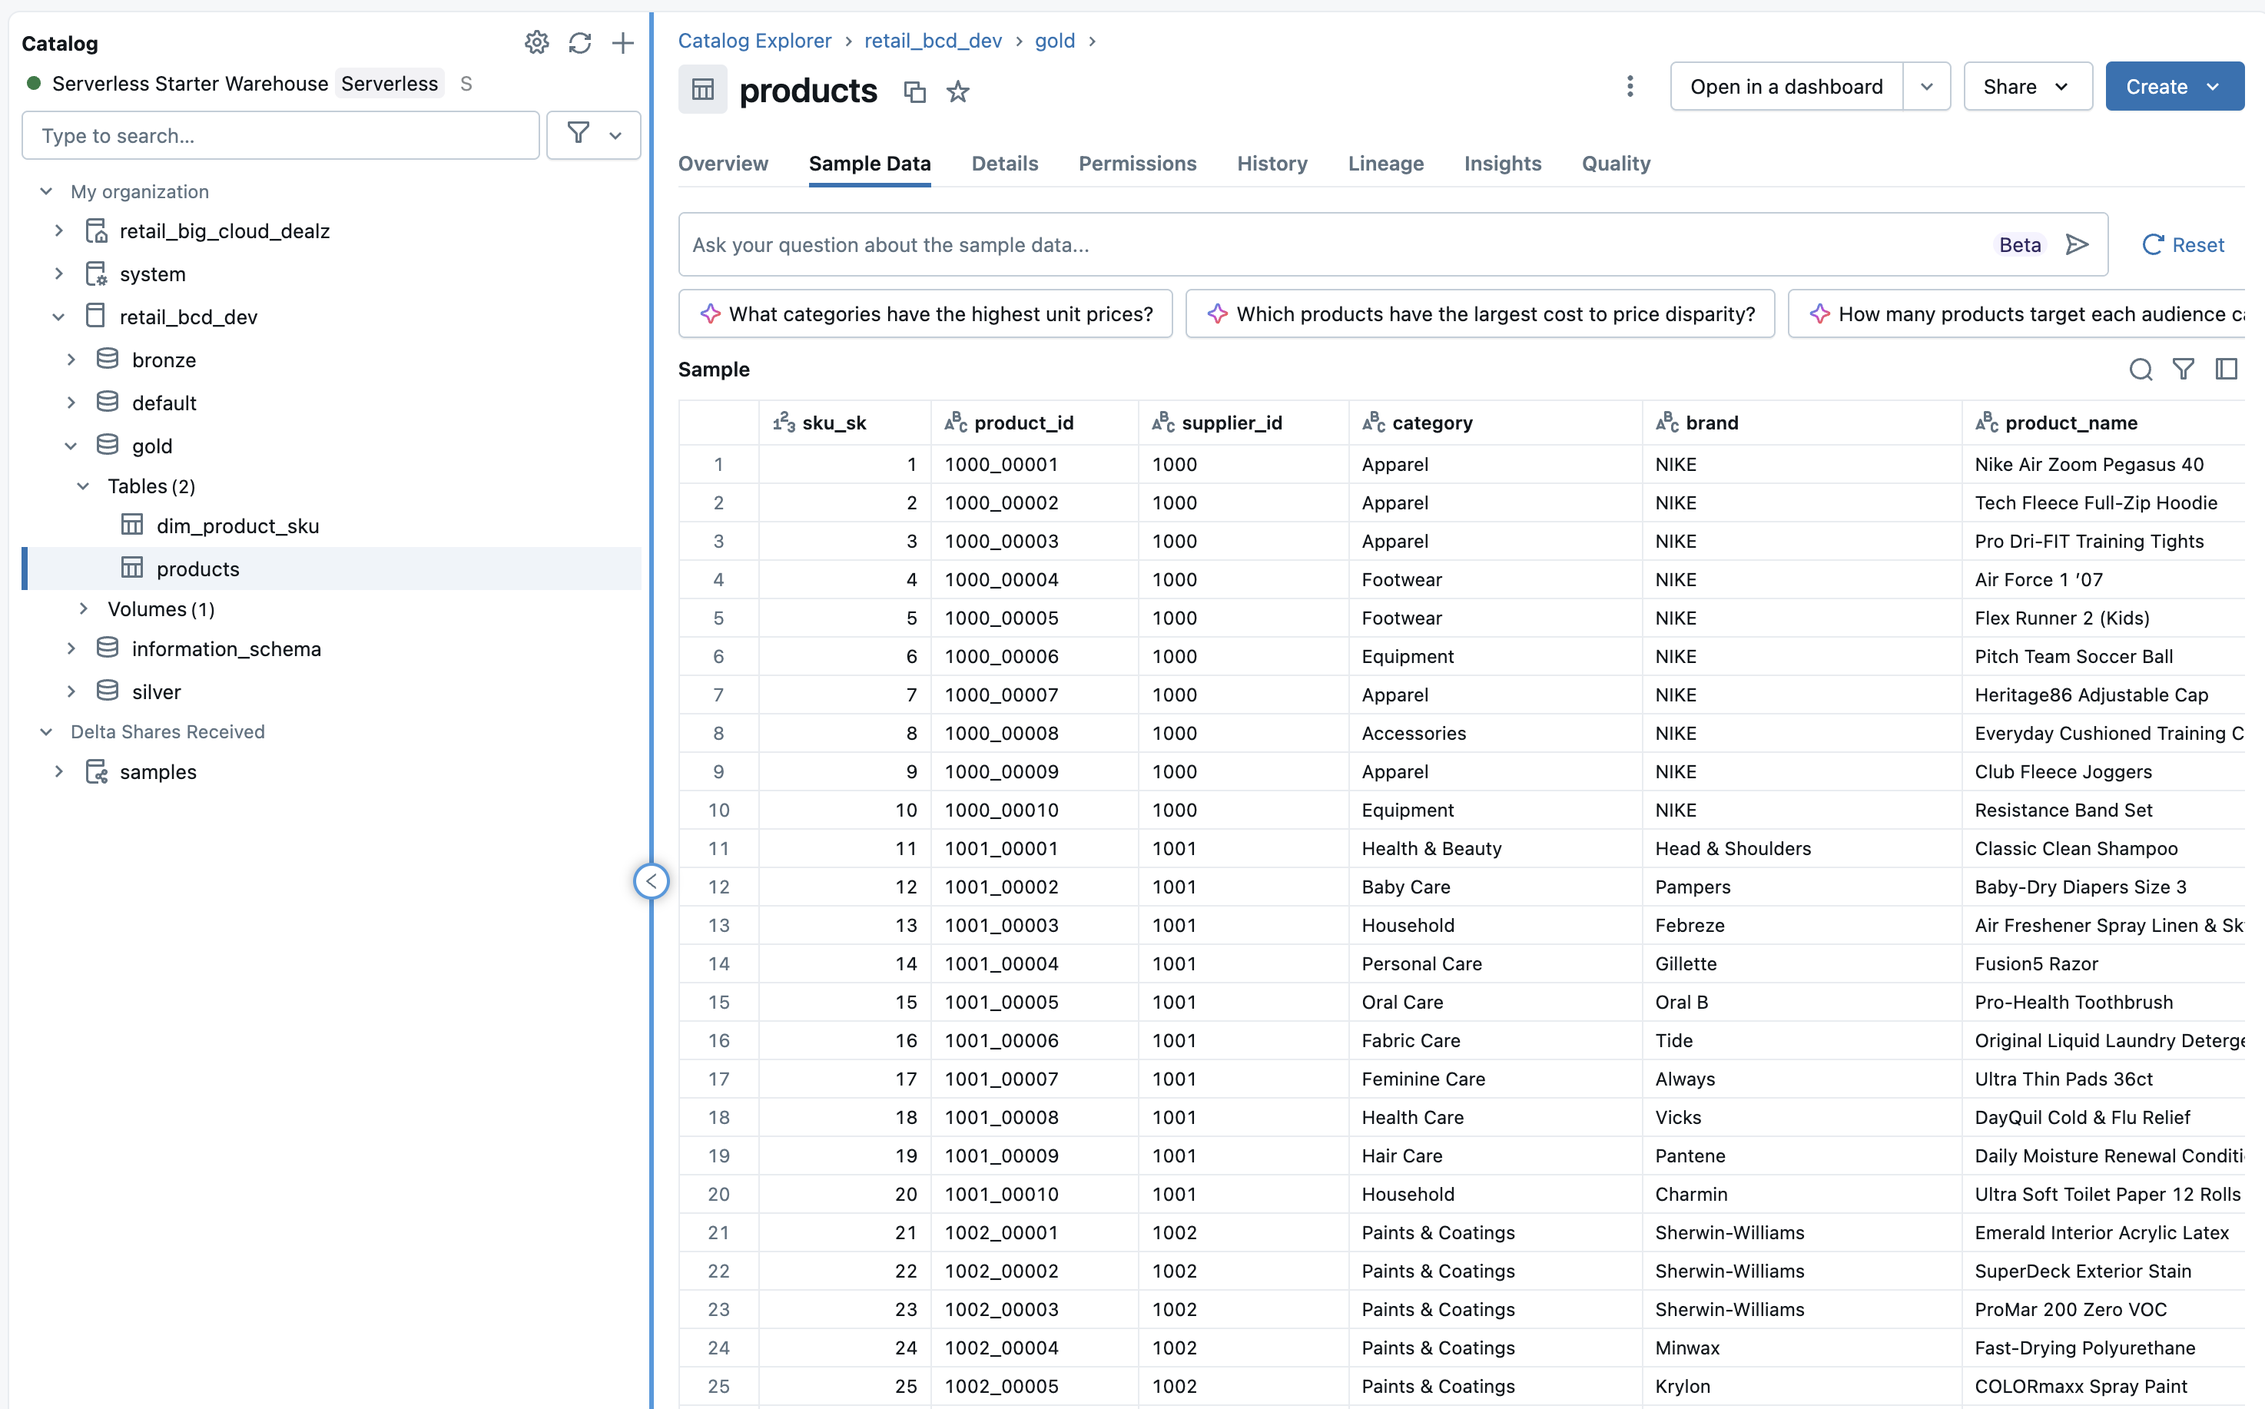
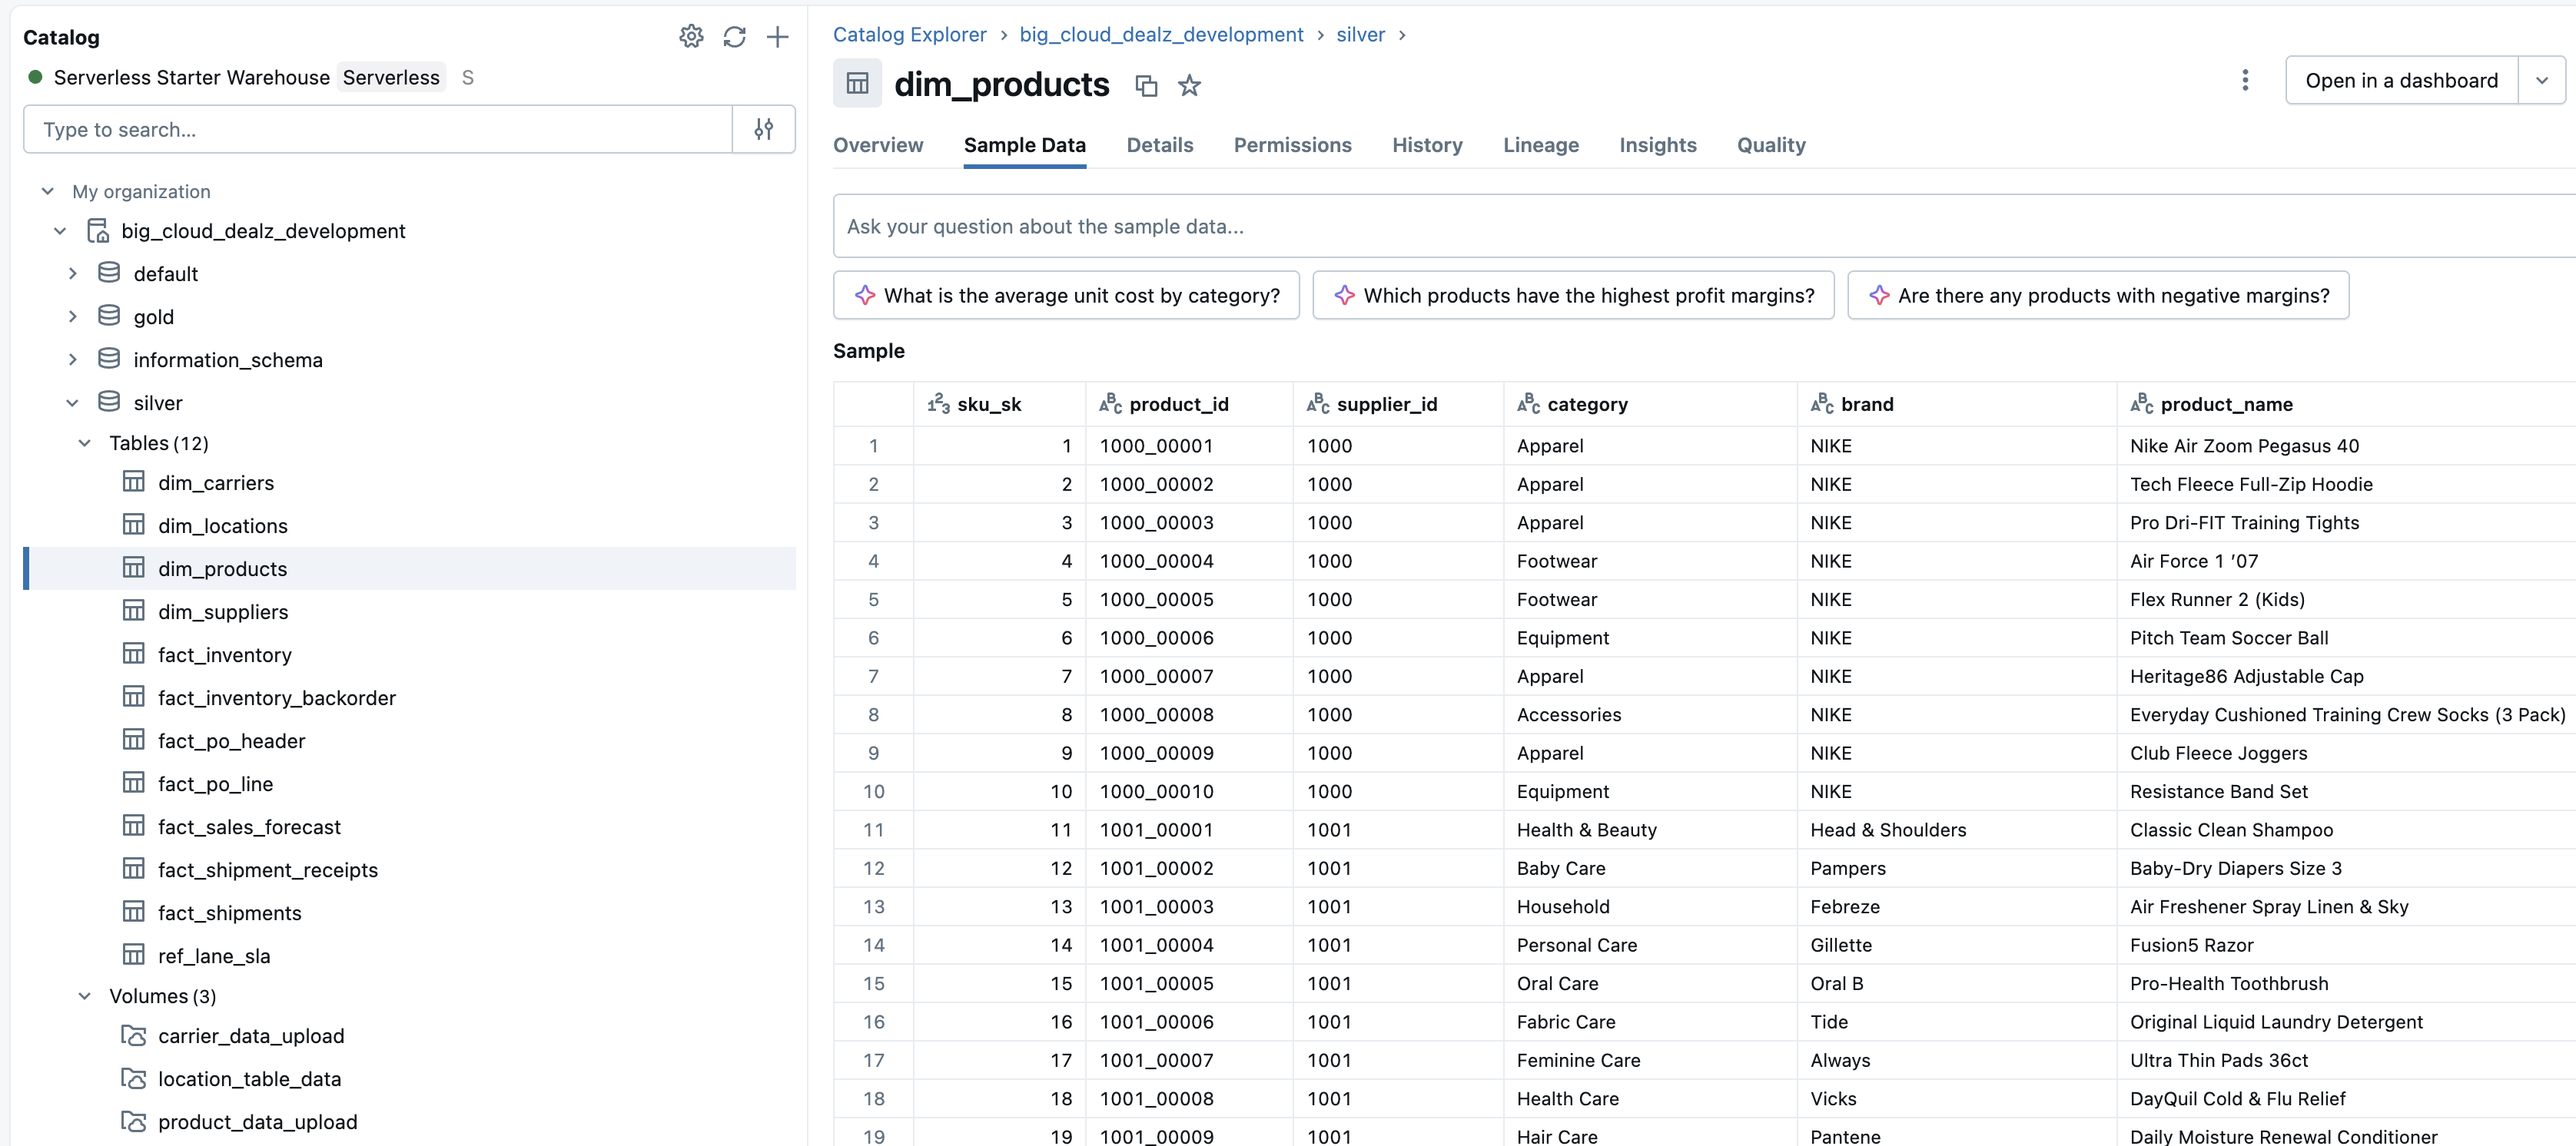
updated blog stuff

diff --git a/blog/building_retail_product_delta_table_with_databricks_unity_catalog.html b/blog/building_retail_product_delta_table_with_databricks_unity_catalog.html
@@ -237,6 +237,7 @@
                 <li class="nav-item dropdown">
                   <a class="nav-link dropdown-toggle" href="#" data-bs-toggle="dropdown" data-bs-auto-close="outside" aria-expanded="false">Engineering Services</a>
                   <ul class="dropdown-menu">
+                    <li><a class="dropdown-item" href="../offerings/migrations_to_databricks.html">Migration to Databricks</a></li>
                     <li><a class="dropdown-item" href="../platform_engineering.html">Platform Engineering</a></li>
                     <li><a class="dropdown-item" href="../data_engineering.html">Data Engineering</a></li>
                     <li><a class="dropdown-item" href="../generative_ai.html">GenAI Services</a></li>
@@ -329,7 +330,7 @@
             Before we can build our table, we need a centralized location for our raw data files. <code>Unity Catalog Volumes</code> are the perfect tool for this job, as they allow us to store, govern, and access non-tabular data, like our CSVs, from within the Databricks environment.
            </p>
            <p class="fs-lg">
-            To begin, we navigate to our desired location in the Catalog Explorer—for this project, the <code>gold</code> schema within the <code>retail_bcd_dev</code> catalog. Creating a volume is straightforward: simply click the "Create" button, select "Volume" from the dropdown, and assign it a name, such as <code>product_files_upload</code>. 
+            To begin, we navigate to our desired location in the Catalog Explorer—for this project, the <code>silver</code> schema within the <code>big_cloud_dealz_development</code> catalog. Creating a volume is straightforward: simply click the "Create" button, select "Volume" from the dropdown, and assign it a name, such as <code>product_data_upload</code>. 
 
 
           </p>
@@ -341,19 +342,19 @@
           </div>    
           
            <p class="fs-lg">
-            With the volume created, we can upload our product CSV files using the Databricks UI. By selecting our volume and clicking "Upload to this volume," we can drag and drop the files directly. Once uploaded, the files are staged and ready for use. The UI conveniently provides the exact path to the volume, which we will need for our SQL query: <code>/Volumes/retail_bcd_dev/gold/product_files_upload/</code>.
+            With the volume created, we can upload our product CSV files using the Databricks UI. By selecting our volume and clicking "Upload to this volume," we can drag and drop the files directly. Once uploaded, the files are staged and ready for use. The UI conveniently provides the exact path to the volume, which we will need for our SQL query: <code>/Volumes/big_cloud_dealz_development/silver/product_data_upload/</code>.
            </p>
 
            <h2 class="h2 mb-lg-4 pt-3 pt-md-4 pt-xl-5">Step 2: Build the Table with a CTAS Statement</h2>
            <p class="fs-lg">
-            Now we arrive at the main event: creating the table. The <code>CREATE TABLE AS SELECT</code> (CTAS) statement will read the data directly from our staged CSV files and load it into a new <code>Delta table</code> named <code>products</code>. This powerful, single statement handles table definition, schema inference, and data insertion all at once.
+            Now we arrive at the main event: creating the table. The <code>CREATE TABLE AS SELECT</code> (CTAS) statement will read the data directly from our staged CSV files and load it into a new <code>Delta table</code> named <code>dim_products</code>. This powerful, single statement handles table definition, schema inference, and data insertion all at once.
            </p>
            <p class="fs-lg">
             Here is the complete SQL query to accomplish this:
            </p>
 <pre class="line-numbers mt-5 mb-5">
 <code class="lang-sql">
-CREATE OR REPLACE TABLE retail_bcd_dev.gold.products
+CREATE OR REPLACE TABLE big_cloud_dealz_development.silver.dim_products
 USING DELTA
 AS
 SELECT
@@ -364,7 +365,7 @@ SELECT
   CAST(brand AS STRING) AS brand,
   CAST(product_name AS STRING) AS product_name
 FROM read_files(
-  '/Volumes/retail_bcd_dev/gold/product_files_upload/',
+  '/Volumes/big_cloud_dealz_development/silver/product_data_upload/',
   format => 'csv',
   header => true,
   inferSchema => true
@@ -372,12 +373,12 @@ FROM read_files(
 </code>
 </pre>
            <p class="fs-lg">
-            This command elegantly performs several actions. The <code>CREATE OR REPLACE TABLE</code> clause defines our table's name, <code>retail_bcd_dev.gold.products</code>, and the <code>OR REPLACE</code> option ensures the query is idempotent, meaning it can be re-run without errors. <code>USING DELTA</code> specifies that we are creating a table in the default and recommended Delta Lake format. The core of the statement is the <code>AS SELECT</code> clause, where the results of the query populate the new table. Inside, we use the <code>read_files</code> function to access the data in our Volume, specifying the format is <code>csv</code>, that the files contain a header row, and that <code>inferSchema</code> should be used to automatically detect column types. Finally, while schema inference is convenient, it is a best practice to explicitly <code>CAST</code> columns to their desired data types to ensure data quality and prevent unexpected errors.
+            This command elegantly performs several actions. The <code>CREATE OR REPLACE TABLE</code> clause defines our table's name, <code>big_cloud_dealz_development.silver.dim_products</code>, and the <code>OR REPLACE</code> option ensures the query is idempotent, meaning it can be re-run without errors. <code>USING DELTA</code> specifies that we are creating a table in the default and recommended Delta Lake format. The core of the statement is the <code>AS SELECT</code> clause, where the results of the query populate the new table. Inside, we use the <code>read_files</code> function to access the data in our Volume, specifying the format is <code>csv</code>, that the files contain a header row, and that <code>inferSchema</code> should be used to automatically detect column types. Finally, while schema inference is convenient, it is a best practice to explicitly <code>CAST</code> columns to their desired data types to ensure data quality and prevent unexpected errors.
            </p>
 
            <h2 class="h2 mb-lg-4 pt-3 pt-md-4 pt-xl-5">The Result: A Ready-to-Use Product Table</h2>
            <p class="fs-lg">
-            After running the CTAS statement, our <code>products</code> table is instantly created and available in the <code>gold</code> schema. As a <code>Unity Catalog</code> managed table, it is fully governed and immediately ready for querying.
+            After running the CTAS statement, our <code>dim_products</code> table is instantly created and available in the <code>silver</code> schema. As a <code>Unity Catalog</code> managed table, it is fully governed and immediately ready for querying.
 
           </p>
 

diff --git a/offerings/migrations_to_databricks.html b/offerings/migrations_to_databricks.html
@@ -737,11 +737,11 @@
 
 
             <div class="card">
-              <img src="../assets/img/claims_data_model_cube_dbx_header_0.jpg" class="card-img-top" alt="Card image">
+              <img src="../assets/img/building_retail_product_table_header_0.jpg" class="card-img-top" alt="Card image">
               <div class="card-body">
-                <h4 class="card-title">Building a Standard Claims Data Model With the Cube Semantic Layer and Databricks</h4>
-                <p class="card-text">Creating standard claims data models for claims knowledge work in property insurance companies.</p>
-                <a href="../blog/building_standard_claims_data_model_cube_dbx_lakehouse.html" class="btn btn-primary">Read</a>
+                <h4 class="card-title">Building a Retail Product Delta Table with Databricks Unity Catalog</h4>
+                <p class="card-text">In this article we get you going quickly building Delta Tables with CTAS statements and Unity Catalog on Databricks.</p>
+                <a href="../blog/building_retail_product_delta_table_with_databricks_unity_catalog.html" class="btn btn-primary">Read</a>
               </div>
             </div>
 
@@ -755,11 +755,11 @@
 
 
             <div class="card">
-              <img src="../blog/images/meta_og_images/pct_dbt_duckdb_part_2_og_card.jpg" class="card-img-top" alt="Card image">
+              <img src="../assets/img/hive_metastore_vs_unity_catalog_header_0.jpg" class="card-img-top" alt="Card image">
               <div class="card-body">
-                <h4 class="card-title">Data Modeling Healthcare Data with DBT</h4>
-                <p class="card-text">In this post we’ll build our first DBT pipeline to summarize patient history data for downstream data engineers.</p>
-                <a href="../blog/dbt_hello_world_part_2_pipeline.html" class="btn btn-primary">Read</a>
+                <h4 class="card-title">Understanding the Difference Between Unity Catalog and the Hive Metastore</h4>
+                <p class="card-text">In this article we give a breakdown of the key differences between the legacy hive metastore and the modern Databricks Unity Catalog.</p>
+                <a href="../blog/understanding_the_difference_between_unity_catalog_and_hive_metastore.html" class="btn btn-primary">Read</a>
               </div>
             </div>
 

diff --git a/blog/analyzing_claims_data_with_cube_and_google_gsheets.html b/blog/analyzing_claims_data_with_cube_and_google_gsheets.html
@@ -264,6 +264,7 @@
                 <li class="nav-item dropdown">
                   <a class="nav-link dropdown-toggle" href="#" data-bs-toggle="dropdown" data-bs-auto-close="outside" aria-expanded="false">Engineering Services</a>
                   <ul class="dropdown-menu">
+                    <li><a class="dropdown-item" href="../offerings/migrations_to_databricks.html">Migration to Databricks</a></li>
                     <li><a class="dropdown-item" href="../platform_engineering.html">Platform Engineering</a></li>
                     <li><a class="dropdown-item" href="../data_engineering.html">Data Engineering</a></li>
                     <li><a class="dropdown-item" href="../generative_ai.html">GenAI Services</a></li>

diff --git a/blog/bordereaux_data_integration_into_databricks_with_tabsdata.html b/blog/bordereaux_data_integration_into_databricks_with_tabsdata.html
@@ -237,6 +237,7 @@
                 <li class="nav-item dropdown">
                   <a class="nav-link dropdown-toggle" href="#" data-bs-toggle="dropdown" data-bs-auto-close="outside" aria-expanded="false">Engineering Services</a>
                   <ul class="dropdown-menu">
+                    <li><a class="dropdown-item" href="../offerings/migrations_to_databricks.html">Migration to Databricks</a></li>
                     <li><a class="dropdown-item" href="../platform_engineering.html">Platform Engineering</a></li>
                     <li><a class="dropdown-item" href="../data_engineering.html">Data Engineering</a></li>
                     <li><a class="dropdown-item" href="../generative_ai.html">GenAI Services</a></li>

diff --git a/blog/understanding_the_difference_between_unity_catalog_and_hive_metastore.html b/blog/understanding_the_difference_between_unity_catalog_and_hive_metastore.html
@@ -314,6 +314,7 @@
                 <li class="nav-item dropdown">
                   <a class="nav-link dropdown-toggle" href="#" data-bs-toggle="dropdown" data-bs-auto-close="outside" aria-expanded="false">Engineering Services</a>
                   <ul class="dropdown-menu">
+                    <li><a class="dropdown-item" href="../offerings/migrations_to_databricks.html">Migration to Databricks</a></li>
                     <li><a class="dropdown-item" href="../platform_engineering.html">Platform Engineering</a></li>
                     <li><a class="dropdown-item" href="../data_engineering.html">Data Engineering</a></li>
                     <li><a class="dropdown-item" href="../generative_ai.html">GenAI Services</a></li>
